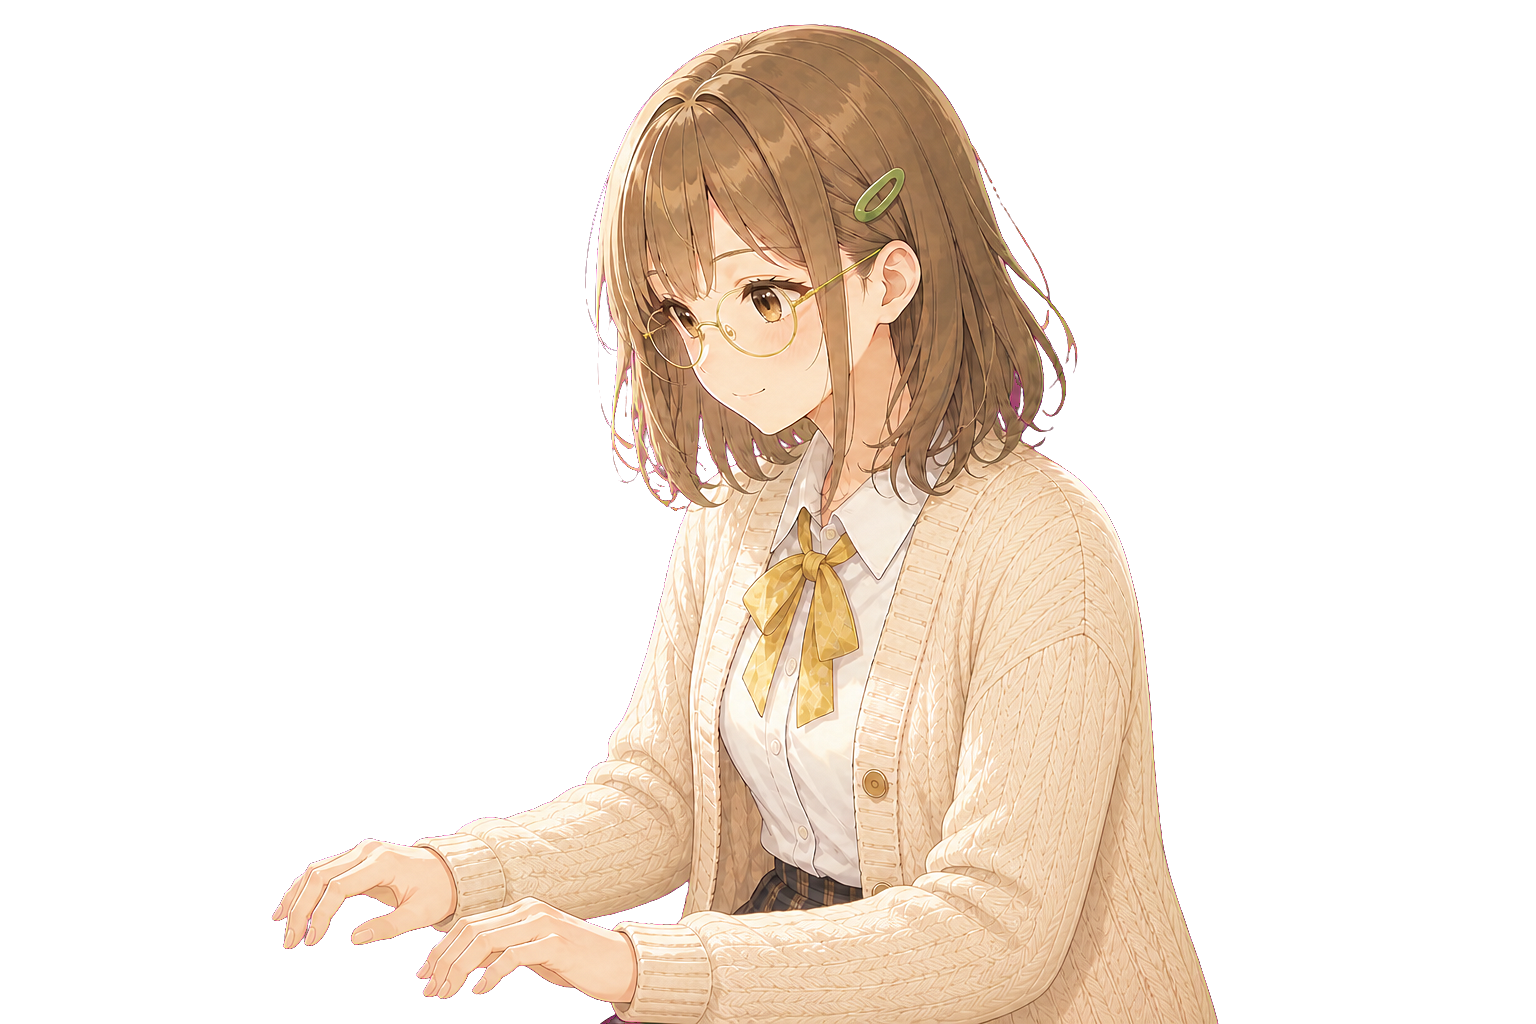
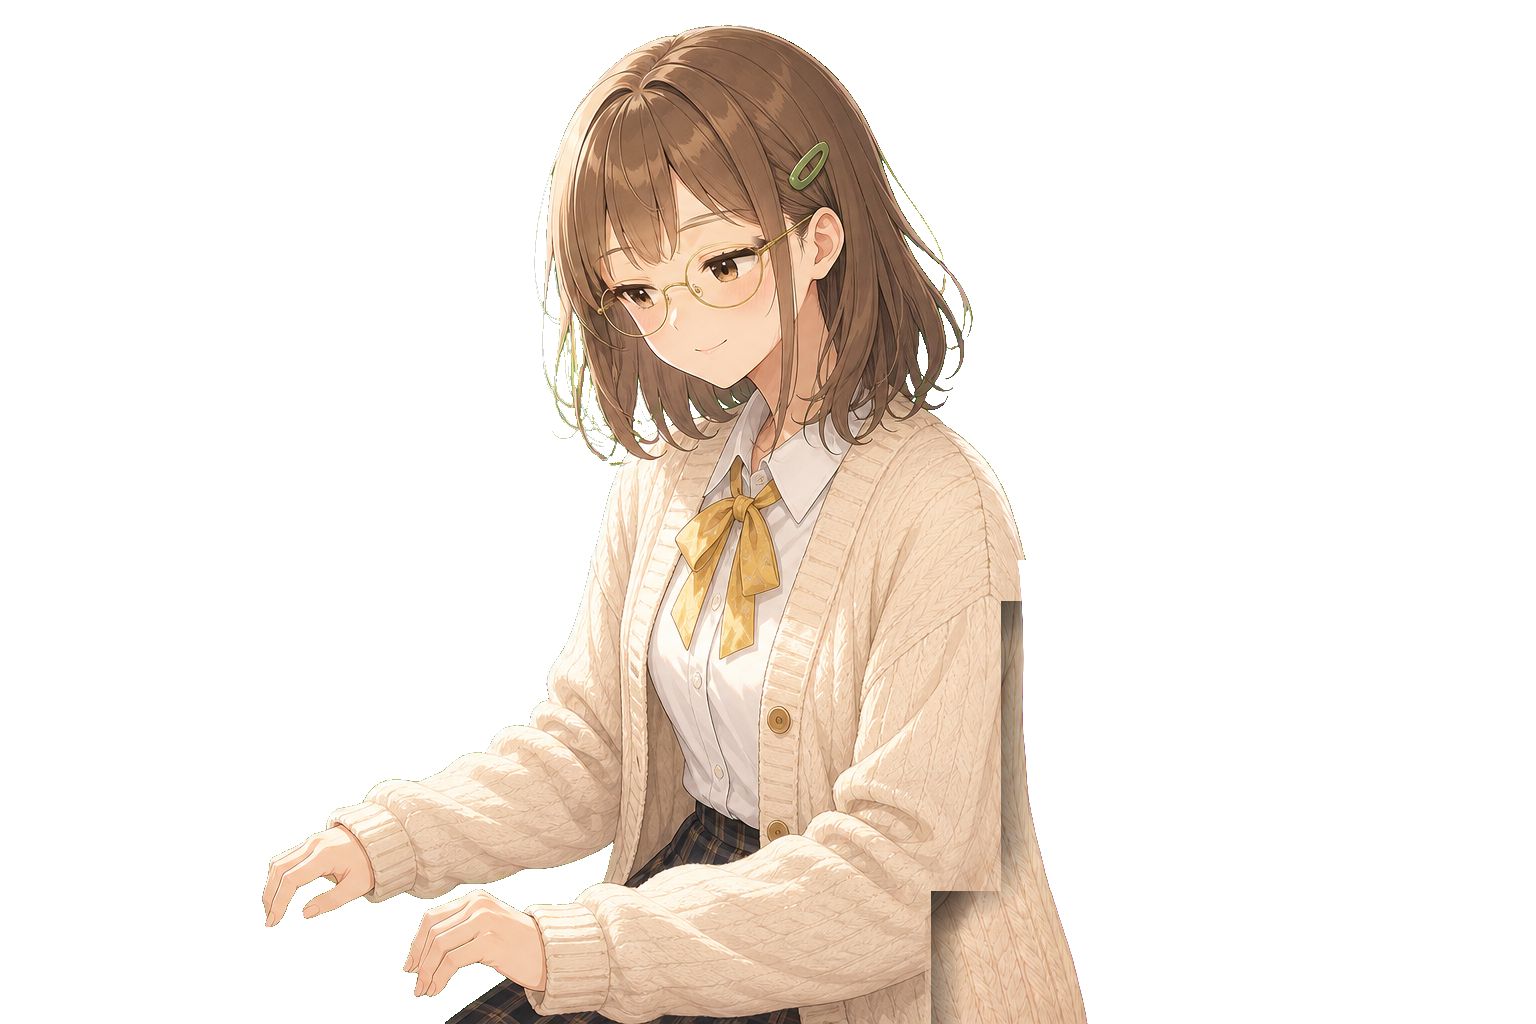
Rebuild every Yua frame on the original face
The blink was already grafted onto the original; the rest of the set was
still the Codex re-render face. Now all eight frames share one head:

  neutral    original + tone-matched sleeve patch (unchanged)
  blink      grafted eyes                         0.0037 vs base
  at-screen  eyes glance down-left to the monitor, head still  0.0042
  smile / shy / surprised / thinking / rest       0.006-0.008

Each is a Codex -i edit of the ORIGINAL (flattened on magenta so the model
can see it), keyed, then only the face rectangle grafted onto the crisp
base with a feathered border — so a frame is pixel-original everywhere
except the few hundred pixels that actually change, and the sharpness that
was lost to re-rendering never enters the set.

The at-screen stance used to be a different head pose (a re-render with a
turned head, 0.11 off). A glance keeps her face hers; and because both
stances now share a head, blink and hands are one file copied per stance
instead of separate cuts that could drift.

Magenta sources kept as *_keyed.png (export-excluded); the obsolete
re-render sources (neutral, both hands cuts) removed. The four unwired
expressions are drop-ins — show_expression() picks up yua_<name>.png
when it exists.

Harness green, 94/94.

Changed region(s): [[0.1562, 0.0, 0.8125, 1.0]]

diff --git a/docs/Demo_Art_Checklist.md b/docs/Demo_Art_Checklist.md
@@ -95,3 +95,5 @@ Legend: ✅ done · 🔧 in progress · ⬜ not started · 🅾 owner decides/ac
 - 🅾 D2 — pick a UI direction from the four (references + mockups coming).
 - 🅾 C1 — do the music tracks loop cleanly?
 - 🅾 E2 — pick Yua's voice from the audition (after script).
+
+> **2026-09-05 — Yua frame set rebuilt on the original face.** Every frame (neutral, blink, at-screen, smile, shy, surprised, thinking, rest) is now the crisp original with only the face region grafted from a Codex `-i` edit of that original; each measures 0.004–0.008 against the base. `*_keyed.png` files are the magenta sources for those grafts. Stances share one head, so `yua_at_work_*` are copies of the `at_player` frames with the at-screen eyes as base.
